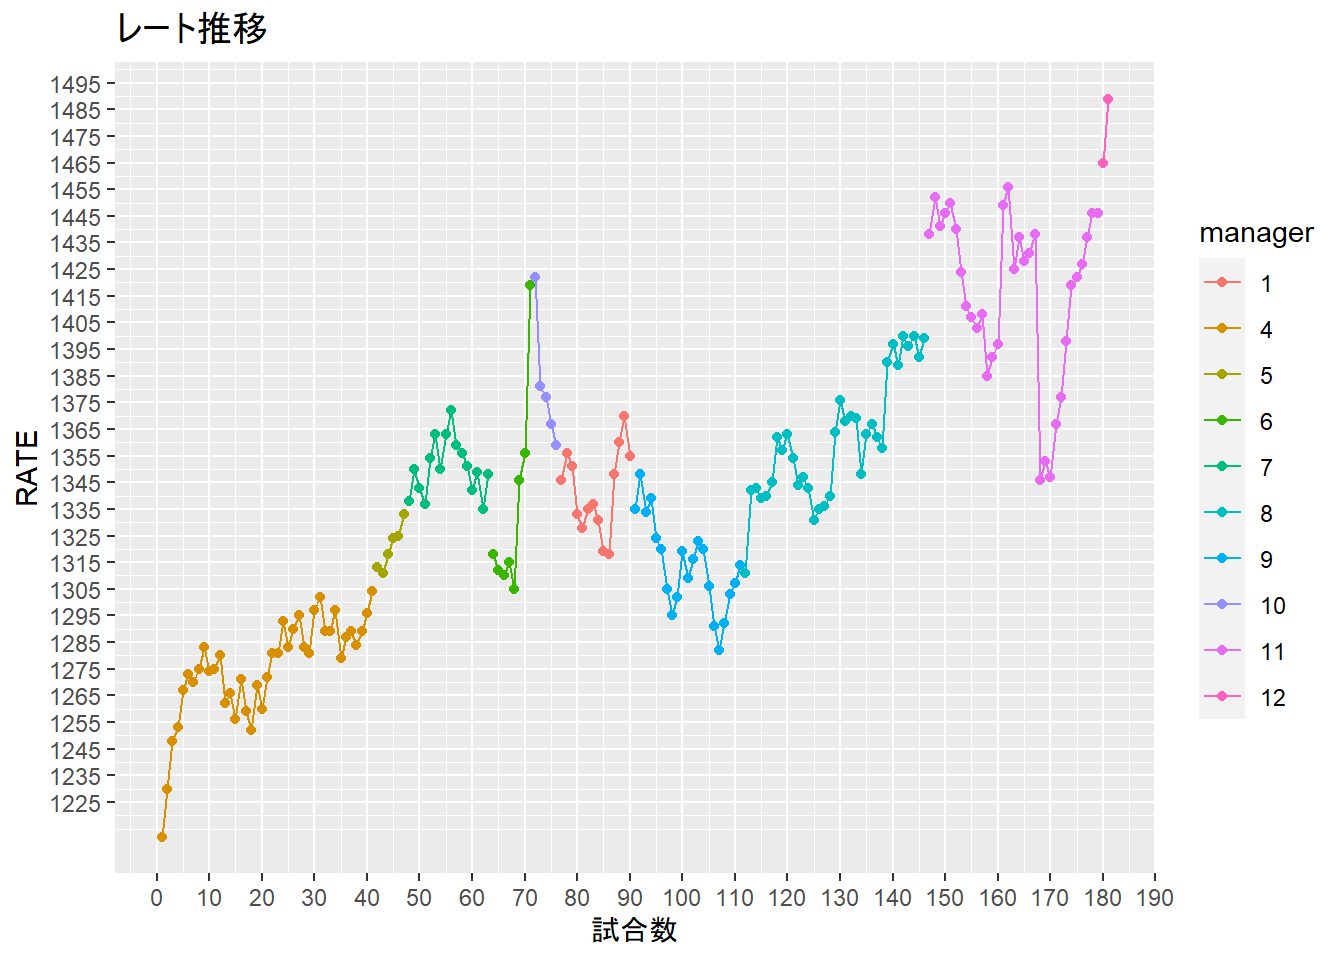
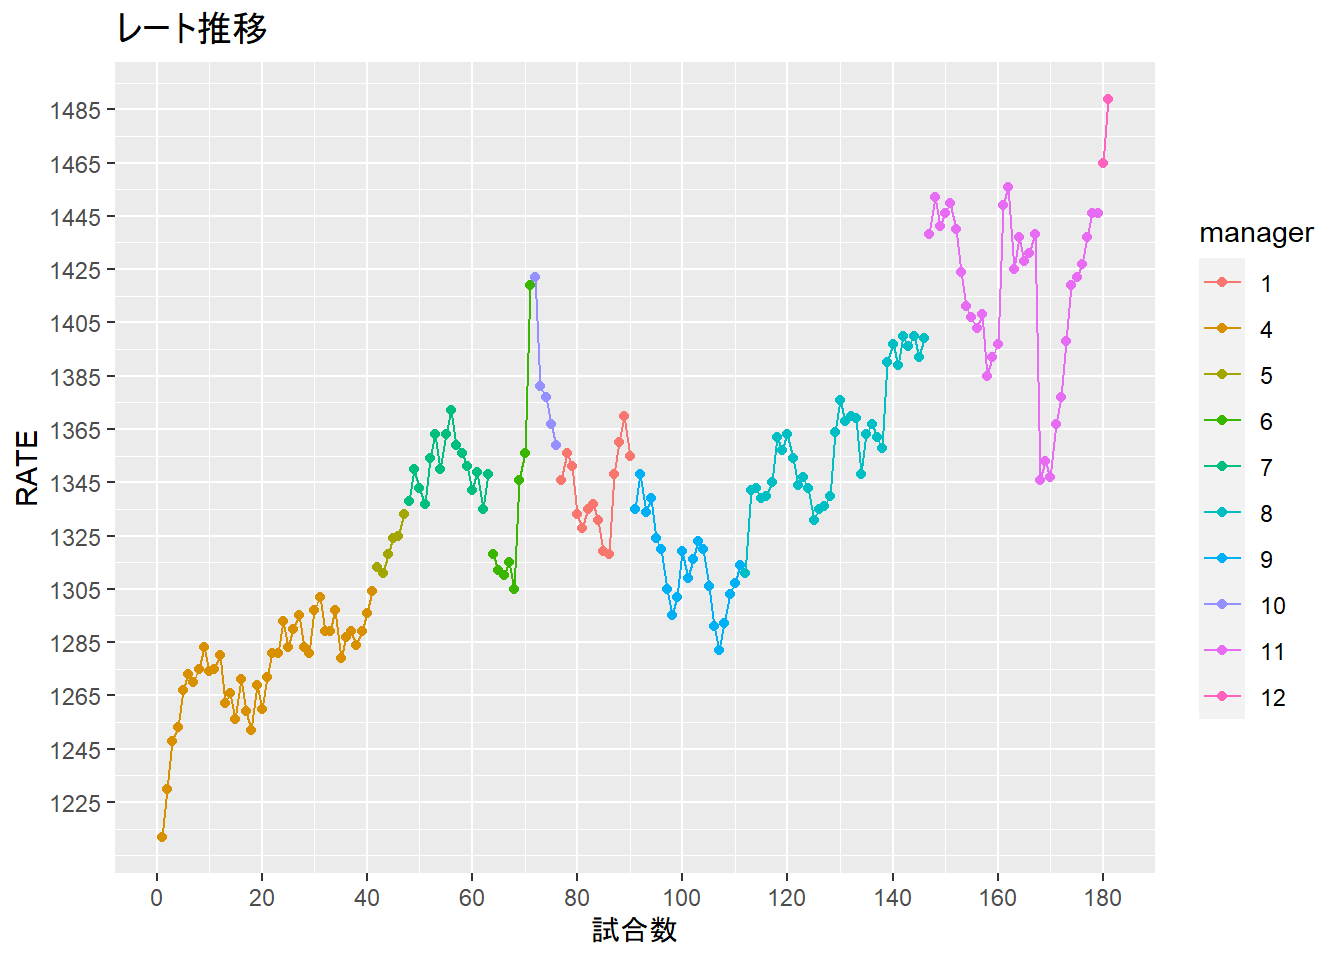
色付け

diff --git a/docs/index.html b/docs/index.html
@@ -320,8 +320,8 @@ $(document).ready(function () {
   geom_line()+
   labs(x = &quot;試合数&quot;, y = &quot;RATE&quot;, title  = &quot;レート推移&quot;,
        family = &quot;Meiryo&quot;, color = &quot;manager&quot;)+
-  scale_y_continuous(breaks = seq(1225, 1500, by = 10))+
-  scale_x_continuous(breaks = seq(0, 200, by = 10))</code></pre>
+  scale_y_continuous(breaks = seq(1225, 1500, by = 20))+
+  scale_x_continuous(breaks = seq(0, 200, by = 20))</code></pre>
 <p><img src="index_files/figure-html/unnamed-chunk-3-1.png" width="672" /></p>
 </div>
 <div id="相手フォーメーションごとの戦績" class="section level2">
@@ -329,7 +329,7 @@ $(document).ready(function () {
 <pre class="r"><code>#全戦績平均
 score %&gt;% 
   filter(CP == 0,
-         manager %in% c(11)) %&gt;% 
+         manager %in% c(11,12)) %&gt;% 
   summarise(GF = mean(GF),
             GA = mean(GA),
             Win_rate = mean(W),
@@ -340,11 +340,11 @@ score %&gt;%
 <pre><code>## # A tibble: 1 x 6
 ##      GF    GA Win_rate lose_rate     n  rate
 ##   &lt;dbl&gt; &lt;dbl&gt;    &lt;dbl&gt;     &lt;dbl&gt; &lt;int&gt; &lt;dbl&gt;
-## 1  2.24 0.939    0.667     0.182    33  1346</code></pre>
+## 1  2.31 0.914    0.686     0.171    35  1346</code></pre>
 <pre class="r"><code>#相手フォーメーションごと戦績
 result_opsys &lt;- score_manager %&gt;% 
   filter(CP == 0,
-         manager %in% c(11)) %&gt;% 
+         manager %in% c(11,12)) %&gt;% 
   group_by(opponent_system) %&gt;% 
   summarise(GF = mean(GF),
             GA = mean(GA),
@@ -357,43 +357,55 @@ result_opsys &lt;- score_manager %&gt;%
             rate = min(rate)) %&gt;% 
   filter(n &gt;= 2)
 
+#システムごとのシュート数
 score_manager %&gt;% 
   filter(CP == 0,
-         manager == 11) %&gt;% 
+         manager %in% c(11,12)) %&gt;% 
   ggplot()+
-  geom_boxplot(aes(x = factor(opponent_system), y = shot))+
-  geom_hline(yintercept = mean(score_manager$shot, na.rm = T))</code></pre>
+  geom_boxplot(aes(x = opponent_system, y = shot, 
+                   fill = opponent_system))+
+  geom_hline(yintercept = mean(score_manager$shot, na.rm = T))+
+  labs(fill = &quot;system&quot;, title = &quot;sys毎のシュート数&quot;)</code></pre>
 <pre><code>## Warning: Removed 11 rows containing non-finite values (stat_boxplot).</code></pre>
 <p><img src="index_files/figure-html/unnamed-chunk-4-1.png" width="672" /></p>
-<pre class="r"><code>#結果①
-result_opsys</code></pre>
+<pre class="r"><code>#システムごとのpossesion
+result_opsys %&gt;%
+  arrange(desc(opponent_system)) %&gt;% 
+  ggplot()+
+  geom_bar(aes(x = opponent_system, y = possesion, 
+                   fill = opponent_system), stat = &quot;identity&quot;)+
+  geom_hline(yintercept = mean(result_opsys$possesion), na.rm = T, 
+             color = &quot;#18437a&quot;, lty = 1, size = 1.5)</code></pre>
+<p><img src="index_files/figure-html/unnamed-chunk-4-2.png" width="672" /></p>
+<pre class="r"><code>#結果1
+result_opsys %&gt;% 
+  rename(&quot;op_sys&quot; = opponent_system)</code></pre>
 <pre><code>## # A tibble: 8 x 10
-##   opponent_system    GF    GA Win_rate lose_rate  shot  pass possesion     n
-##             &lt;dbl&gt; &lt;dbl&gt; &lt;dbl&gt;    &lt;dbl&gt;     &lt;dbl&gt; &lt;dbl&gt; &lt;dbl&gt;     &lt;dbl&gt; &lt;int&gt;
-## 1             343 1.5   0        1          0     4    0.85      0.51      2
-## 2             433 2.5   1.5      0.5        0.5   7    0.9       0.49      2
-## 3             532 3.5   1        1          0     5    0.83      0.54      2
-## 4            3232 2     0        1          0     4    0.84      0.62      2
-## 5            4213 3.5   1.25     0.5        0.25  7.67 0.863     0.533     4
-## 6            4222 0.667 0.333    0.333      0     5    0.81      0.63      3
-## 7            4312 2.5   1.12     0.75       0.25  5.2  0.828     0.544     8
-## 8            5212 2.25  1        0.5        0     4.75 0.832     0.588     4
-## # ... with 1 more variable: rate &lt;dbl&gt;</code></pre>
-<pre class="r"><code>#結果②
+##   op_sys    GF    GA Win_rate lose_rate  shot  pass possesion     n  rate
+##   &lt;chr&gt;  &lt;dbl&gt; &lt;dbl&gt;    &lt;dbl&gt;     &lt;dbl&gt; &lt;dbl&gt; &lt;dbl&gt;     &lt;dbl&gt; &lt;int&gt; &lt;dbl&gt;
+## 1 3232   2     0        1          0     4    0.84      0.62      2  1385
+## 2 343    1.5   0        1          0     4    0.85      0.51      2  1437
+## 3 4213   3.5   1.25     0.5        0.25  7.67 0.863     0.533     4  1353
+## 4 4222   0.667 0.333    0.333      0     5    0.81      0.63      3  1408
+## 5 4312   2.7   1        0.8        0.2   5.14 0.833     0.557    10  1346
+## 6 433    2.5   1.5      0.5        0.5   7    0.9       0.49      2  1392
+## 7 5212   2.25  1        0.5        0     4.75 0.832     0.588     4  1411
+## 8 532    3.5   1        1          0     5    0.83      0.54      2  1367</code></pre>
+<pre class="r"><code>#結果2
 #plot
 result_opsys %&gt;% 
   mutate(opponent_system = as.factor(opponent_system)) %&gt;% 
   arrange(desc(opponent_system) )%&gt;% 
   ggplot(aes(x = opponent_system, y = Win_rate,
              fill = Win_rate))+
-  geom_hline(yintercept = 0.5, lty = 2, color = &quot;#1b6401&quot;)+
+  geom_hline(yintercept = 0.5, lty = 2)+
   geom_bar(aes(y = Win_rate), stat = &quot;identity&quot;)+
-  geom_text(aes(label = round(Win_rate,3)), hjust = 1.4)+
-  scale_fill_gradient2(low = &quot;grey&quot;, high = &quot;#64011b&quot;, aesthetics = &quot;fill&quot;)+
+  geom_text(aes(label = round(Win_rate,3)), hjust = 1.4, color = &quot;white&quot;)+
+  scale_fill_binned()+
   labs(y = &quot;勝率&quot;, fill = &quot;勝率&quot;)+
   coord_flip()+
   labs(title = &quot;相手システムごとの戦績&quot;)</code></pre>
-<p><img src="index_files/figure-html/unnamed-chunk-4-2.png" width="672" /></p>
+<p><img src="index_files/figure-html/unnamed-chunk-4-3.png" width="672" /></p>
 </div>
 </div>
 
